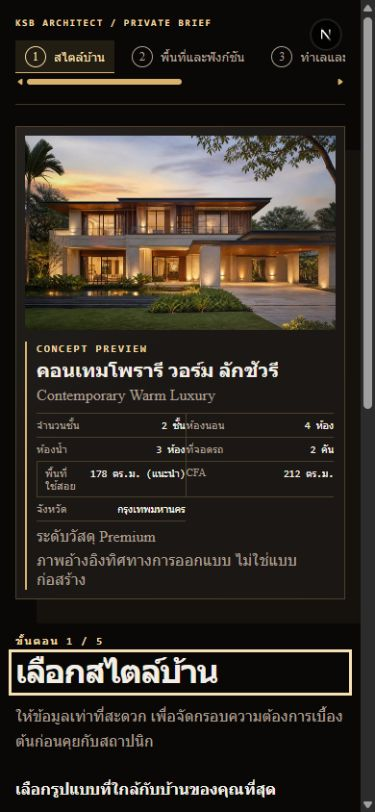
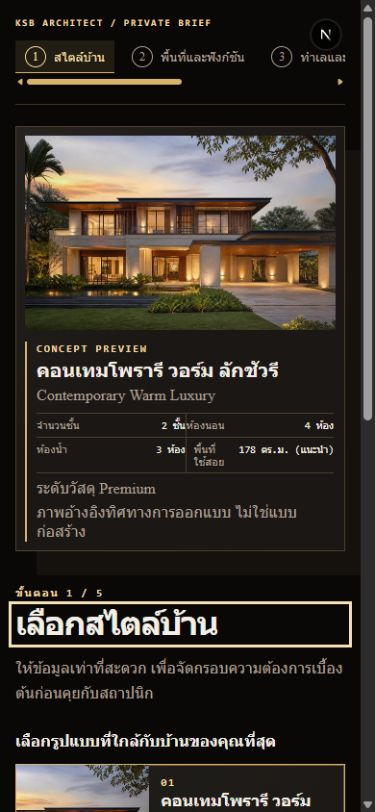
fix: keep mobile preview metrics compact

Changed region(s): [[0.0, 0.5234, 0.9387, 1.0], [0.968, 0.4926, 0.9973, 0.5234]]

diff --git a/web/src/features/configurator/components/configurator-shell.module.css b/web/src/features/configurator/components/configurator-shell.module.css
@@ -268,7 +268,8 @@
   .shell { grid-template-areas: "preview" "form"; grid-template-columns: minmax(0, 1fr); gap: 30px; padding-top: 22px; }
   .preview { position: static; grid-template-columns: minmax(0, 1.1fr) minmax(0, 0.9fr); gap: 12px; padding: 9px; }
   .previewCopy { align-content: start; padding: 1px 2px 1px 10px; }
-  .previewDescription, .previewMaterialDescription, .materialPalette, .previewFeatures, .mobileOptionalMetric { display: none; }
+  .previewDescription, .previewMaterialDescription, .materialPalette, .previewFeatures { display: none; }
+  .metricList > .mobileOptionalMetric { display: none; }
   .metricList { margin-top: 4px; }.metricList > div { padding-top: 5px; padding-bottom: 5px; }.metricColumnLeft { padding-right: 8px; }.metricColumnRight { padding-left: 8px; }
   .metricList [data-live-metric="usable-area"] { padding-right: 0; padding-left: 8px; border-left: 1px solid var(--line); }
   .metricList dt { font-size: 0.7rem; }.metricList dd { font-size: 0.66rem; }
@@ -282,7 +283,7 @@
   .imageFrame { aspect-ratio: 16 / 10; }
   .previewCopy { padding-left: 10px; }
   .previewCopy h2 { font-size: 1.25rem; }
-  .metricList { grid-template-columns: repeat(2, minmax(0, 1fr)); }.metricList > div { display: grid; }
+  .metricList { grid-template-columns: repeat(2, minmax(0, 1fr)); }
   .conceptOption { grid-template-columns: minmax(0, 42fr) minmax(0, 58fr); min-height: 136px; }
   .conceptCopy { padding: 12px 11px 10px 0; }.conceptDescription { font-size: 0.73rem; }
   .checkChoice { min-height: 58px; }

diff --git a/web/src/features/configurator/components/configurator-shell-styles.test.ts b/web/src/features/configurator/components/configurator-shell-styles.test.ts
@@ -14,3 +14,8 @@ test("applies preview dividers only to explicitly right-column metrics", () => {
 test("keeps usable area in the visible right column on compact previews", () => {
   expect(stylesheet).toMatch(/@media \(max-width: 899px\)[\s\S]*?\[data-live-metric="usable-area"\]\s*\{[^}]*border-left:/);
 });
+
+test("does not redisplay optional metrics at the narrow mobile breakpoint", () => {
+  expect(stylesheet).not.toContain(".metricList > div { display: grid; }");
+  expect(stylesheet).toMatch(/\.metricList\s*>\s*\.mobileOptionalMetric\s*\{\s*display:\s*none;/);
+});
